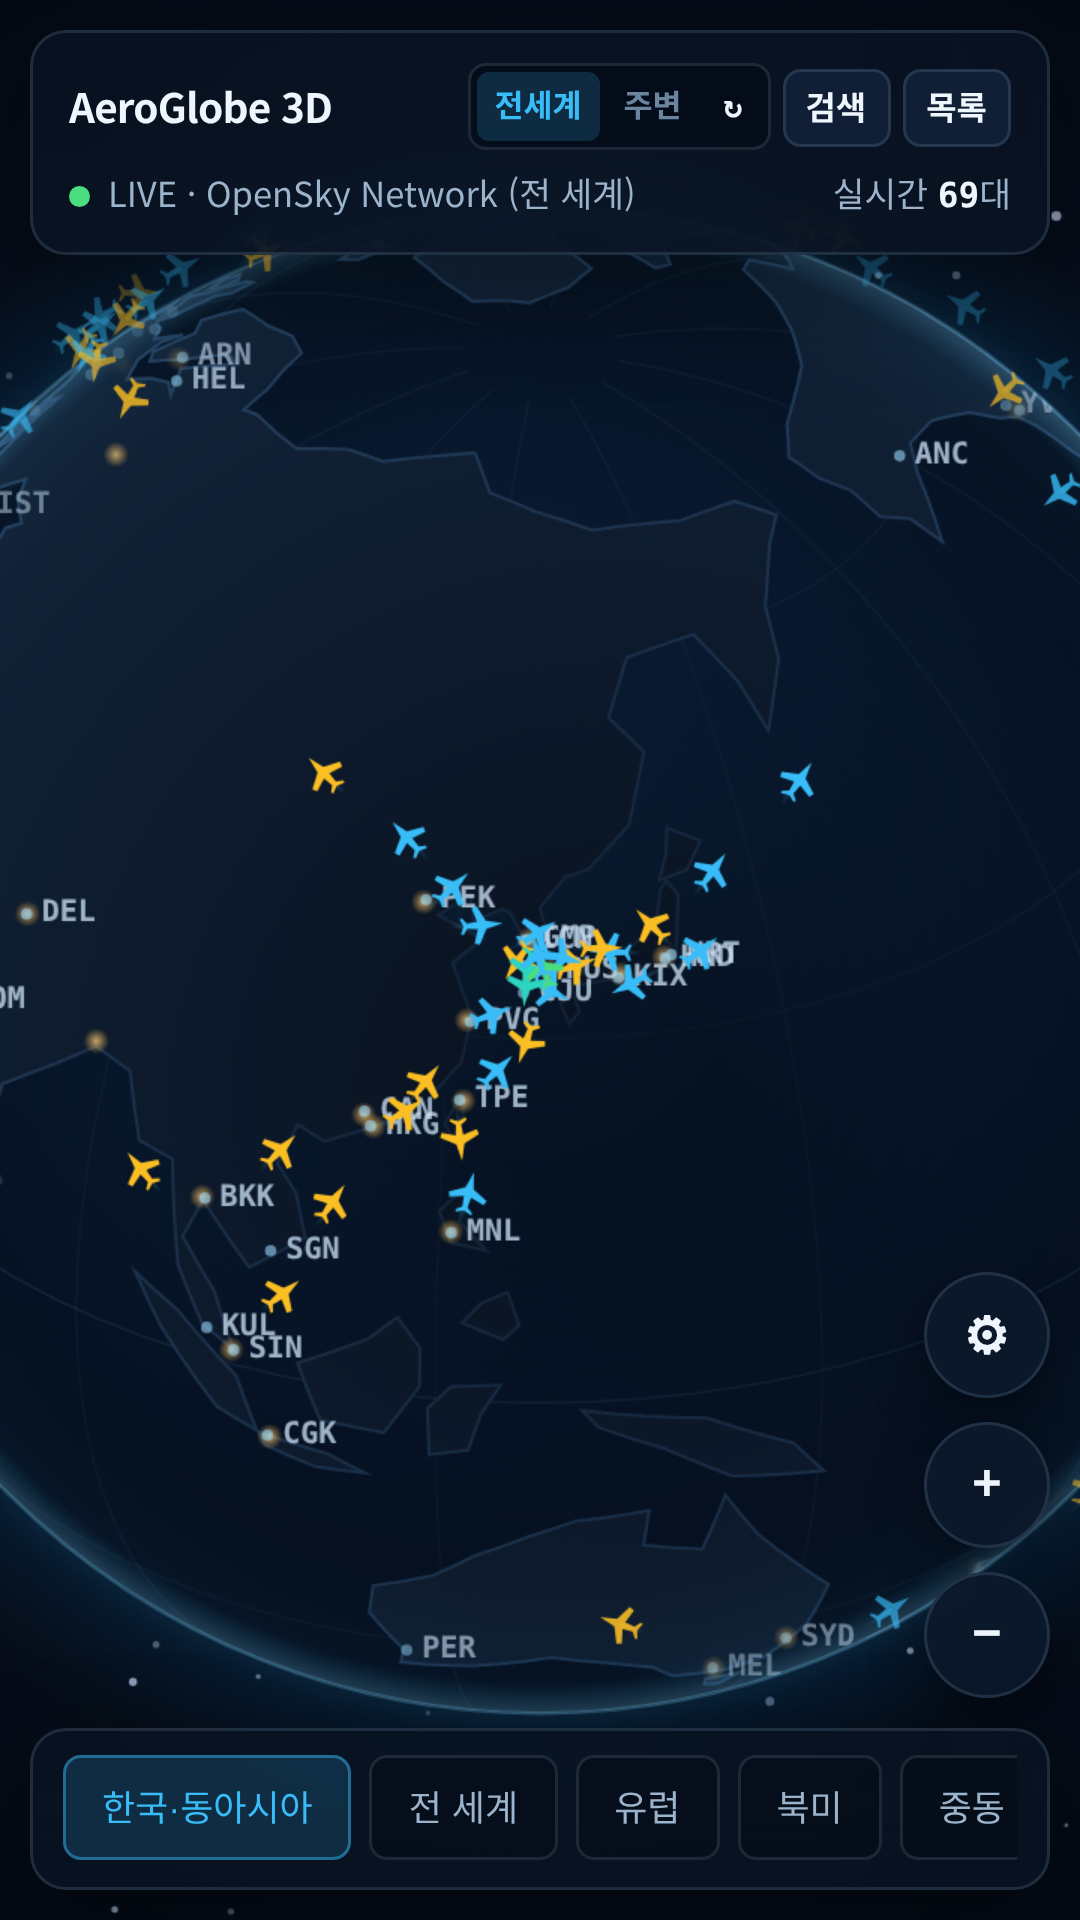
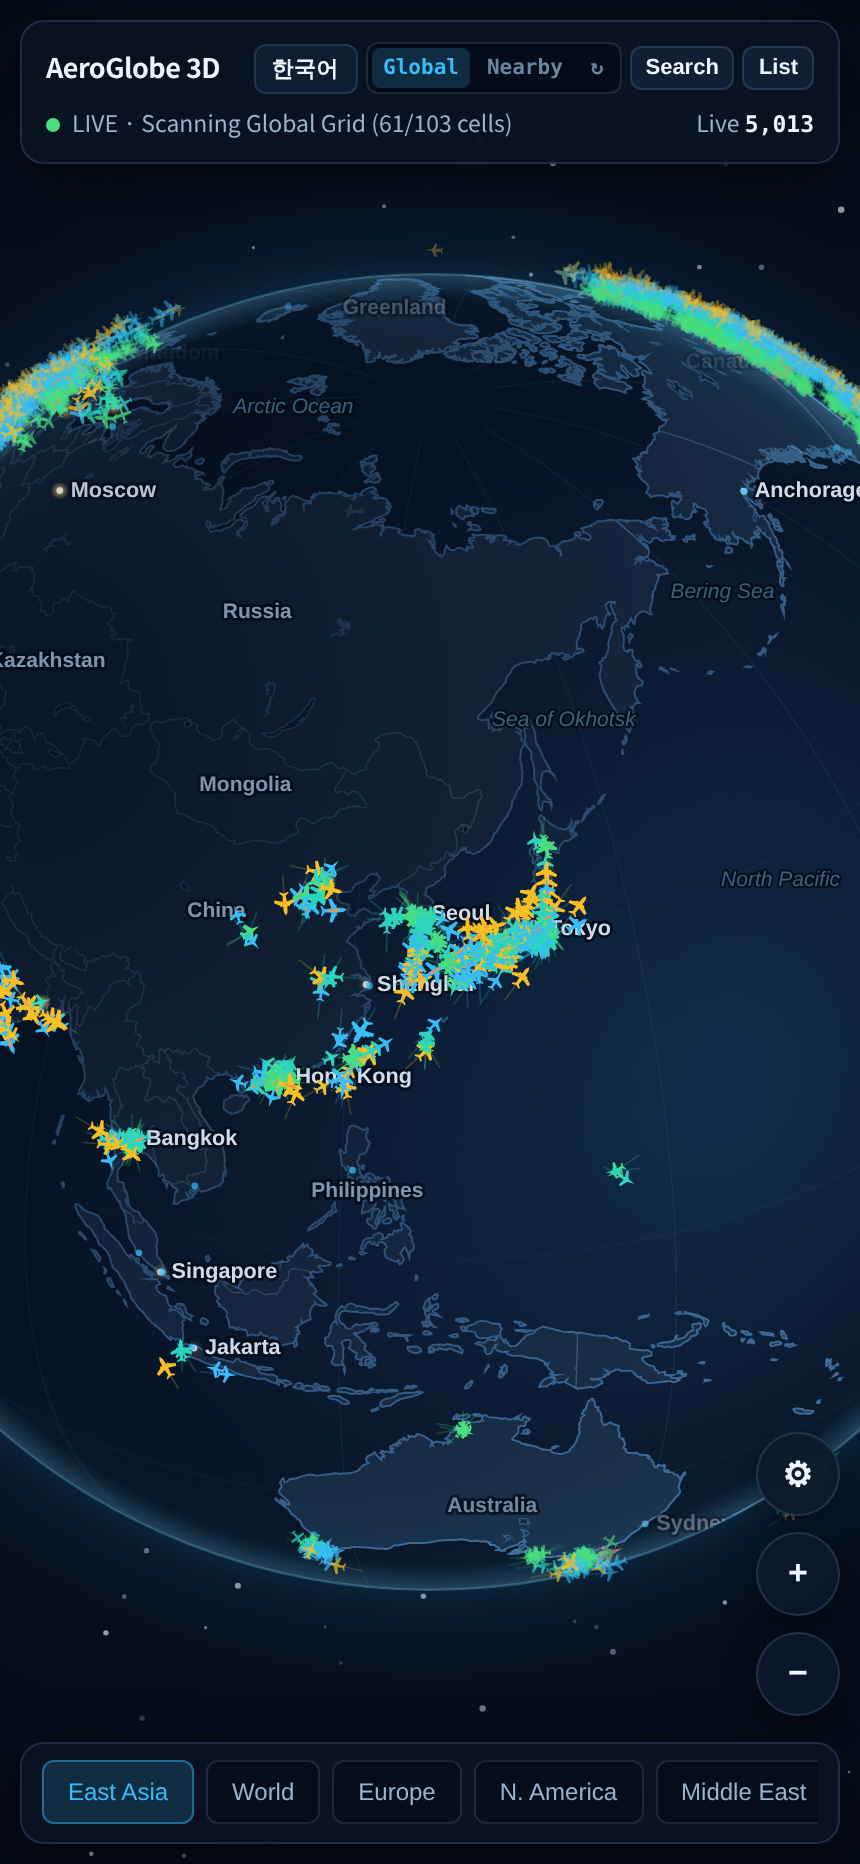
docs: update desktop/mobile screenshots, add animated demo.gif, refresh README, and polish HUD spacing

diff --git a/public/app.js b/public/app.js
@@ -1013,7 +1013,7 @@ function handleLivePayload(payload) {
     statusDotEl.className = 'status-dot';
     sourceLabelEl.textContent = formatSourceTitle(state.activeSource, payload.scanProgress);
 
-    if (payload.notice) {
+    if (payload.notice && state.activeSource !== 'adsb-global') {
       liveNoticeEl.textContent = payload.notice;
       liveNoticeEl.classList.remove('hidden');
     } else {

diff --git a/public/styles.css b/public/styles.css
@@ -92,7 +92,7 @@ body {
 .hud-top-left {
   top: 16px;
   left: 16px;
-  width: 376px;
+  width: min(428px, calc(100vw - 32px));
   padding: 14px 16px;
   display: flex;
   flex-direction: column;

diff --git a/README.md b/README.md
@@ -1,36 +1,58 @@
-# AeroGlobe 3D — 전 세계 실시간 ADS-B 항공기 3D 추적 프로그램
+# AeroGlobe 3D — Global Live ADS-B Flight Tracker
 
-> **라이브 웹 데모 (GitHub Pages):** https://knoxxr.github.io/flight-tracker-3d/
+> **Live Web App:** https://knoxxr.github.io/flight-tracker-3d/  
+> **Live API Server (Render):** https://flight-tracker-3d.onrender.com/
 
-전 세계 실제 비행 중인 항공기의 **100% 실시간 ADS-B 트랜스폰더 데이터만**을 3D 지구본 위에 시각화하는 실시간 항공 추적 웹 애플리케이션입니다. (시뮬레이션/가상 항공기 데이터 없음)
+A zero-dependency Node.js + HTML5 Canvas 3D globe that visualizes **100% real-time ADS-B aircraft transponder data** worldwide — with Flightradar24-style oceanic route estimation, real aircraft photos, clickable airport NOAA METAR weather boards, and instant **English / 한국어** switching.
 
-## 주요 기능
+<p align="center">
+  <img src="./screenshots/demo.gif" alt="AeroGlobe 3D Live Demo Animation" width="800" />
+</p>
 
-- **100% 실시간 ADS-B 데이터 수신 (시뮬레이션 제외)**
-  - **전 세계 피드 (`OpenSky Network`)**: `https://opensky-network.org/api/states/all`에서 전 세계 실제 비행 중인 항공기 최대 1,500대 실시간 표시
-  - **화면 주변 피드 (`adsb.fi Open Data v3`)**: `https://opendata.adsb.fi/api/v3/lat/{lat}/lon/{lon}/dist/250`에서 현재 3D 지구본 화면 중심 반경 250NM 내 실제 항공기(기종·등록번호 포함) 실시간 표시
-  - OpenSky 익명 요청 제한(HTTP 429) 시 자동으로 실제 **adsb.fi 실시간 피드**로 전환하며, 가짜/시뮬레이션 데이터는 표시하지 않습니다.
-  - 실시간 수신 패킷 사이는 실제 대지속도와 진방위 기반 **1배속 추측 항법(Dead Reckoning)**으로 부드럽게 보간
-- **커스텀 3D 구면 지구본 렌더링 (`public/globe.js`)**
-  - 드래그 관성 회전, 줌 인/아웃, 지역별 퀵 카메라 프리셋 (`한국·동아시아`, `전 세계`, `유럽`, `북미`, `중동`, `북대서양`, `태평양`)
-  - 현재 UTC 시각 기반 **실시간 태양광 밤/낮 그림자** 및 야간 도시 불빛
-  - 선택 항공기의 **실시간 누적 비행 궤적(3D Track)**, 예상 진행 방향 벡터, 실시간 수신 고도 추이 그래프 및 카메라 자동 추적(Follow)
+## Key Features
 
-## 실행 방법 (로컬 Node.js 서버)
+- **100% Real-Time Global ADS-B (Zero Fake Flights)**
+  - Aggregates 103 global hubs + oceanic coastal gateways via `OpenSky Network`, `adsb.fi`, and `adsb.lol` with global rate isolation, Gzip snapshot caching, and 1× real-time dead reckoning.
+  - **Oceanic & Blind-Spot Estimation**: Projects genuinely received coastal cruise flights along their real Great Circle routes (`adsbdb.com` + `hexdb.io`) across mid-ocean/blind-spot regions, with optional 24/7 persistence via local JSON or free Upstash Redis REST.
+- **High-Detail 3D Globe (`public/globe.js`)**
+  - Natural Earth 50m coastlines, country borders, lakes, real-time solar Day/Night terminator, night city lights, and **150× deep zoom** with latitude-compensated drag.
+  - **English (default) / Korean (`한국어`)** live switching across all HUD controls, flight metadata, and 240+ 3D globe place names.
+- **Tailored Aircraft Icons & One-Click Filters**
+  - Distinct silhouettes by size & role: 4-engine super-heavy, widebody, cargo freighter, narrowbody, business jet, propeller, spinning-rotor helicopter, military fighter/transport, UAV, and balloon — clickable directly from the bottom-right legend.
+- **Rich Telemetry, Airport METAR & Emergency Alerts**
+  - Click any aircraft for real aircraft photos (`adsbdb` + `Planespotters.net`), Great Circle origin → destination route progress, avionics/upper-air weather, live altitude chart, and shareable deep links (`?flight=...`).
+  - Click any airport hub (`ICN`, `HND`, `JFK`, `LHR`, etc.) for live **NOAA METAR** weather and linked/nearby aircraft.
+  - Automatic pulsing crimson map alert + top banner for real emergency squawks (`7700` / `7600` / `7500`).
+
+## Screenshots
+
+### Desktop (Wide View · Flight Detail · Airport METAR Weather)
+
+| Global / East Asia Live View | Selected Flight Detail & Route Arc | Airport Board & NOAA METAR |
+| :---: | :---: | :---: |
+| ![Desktop Wide](./screenshots/05-desktop-wide.png) | ![Flight Detail](./screenshots/06-desktop-flight-detail.png) | ![Airport METAR](./screenshots/07-desktop-airport-metar.png) |
+
+### Mobile (EN Default & Korean Toggle)
+
+| East Asia Globe | Flight Detail Sheet | Live Flight List | Global View (한국어) |
+| :---: | :---: | :---: | :---: |
+| ![Mobile Globe](./screenshots/01-mobile-korea-globe.png) | ![Mobile Detail](./screenshots/02-mobile-flight-detail.png) | ![Mobile List](./screenshots/03-mobile-flight-list.png) | ![Mobile Global KO](./screenshots/04-mobile-global-view.png) |
+
+## Quick Start (Local Node.js 22+, Zero npm Dependencies)
 
 ```bash
 npm start
 ```
 
-OpenSky 익명 호출 제한을 완화하려면 `.env.example`을 `.env`로 복사해 OpenSky 계정(또는 OAuth2) 정보를 입력하세요.
-
-## 테스트 실행
+Run tests:
 
 ```bash
 npm test
 ```
 
-## 데이터 출처
+## Data Sources
 
-- [OpenSky Network](https://opensky-network.org/) — 글로벌 실시간 ADS-B 상태 벡터
-- [adsb.fi](https://adsb.fi/) — 지역 실시간 ADS-B 오픈 데이터
+- [OpenSky Network](https://opensky-network.org/) · [adsb.fi](https://adsb.fi/) · [adsb.lol](https://adsb.lol/) — Real-time ADS-B telemetry
+- [adsbdb.com](https://www.adsbdb.com/) · [hexdb.io](https://hexdb.io/) · [Planespotters.net](https://www.planespotters.net/) — Routes, aircraft metadata & photos
+- [NOAA Aviation Weather Center](https://aviationweather.gov/) — Live airport METAR weather
+- [Natural Earth 50m](https://www.naturalearthdata.com/) — Coastlines, borders & lakes
